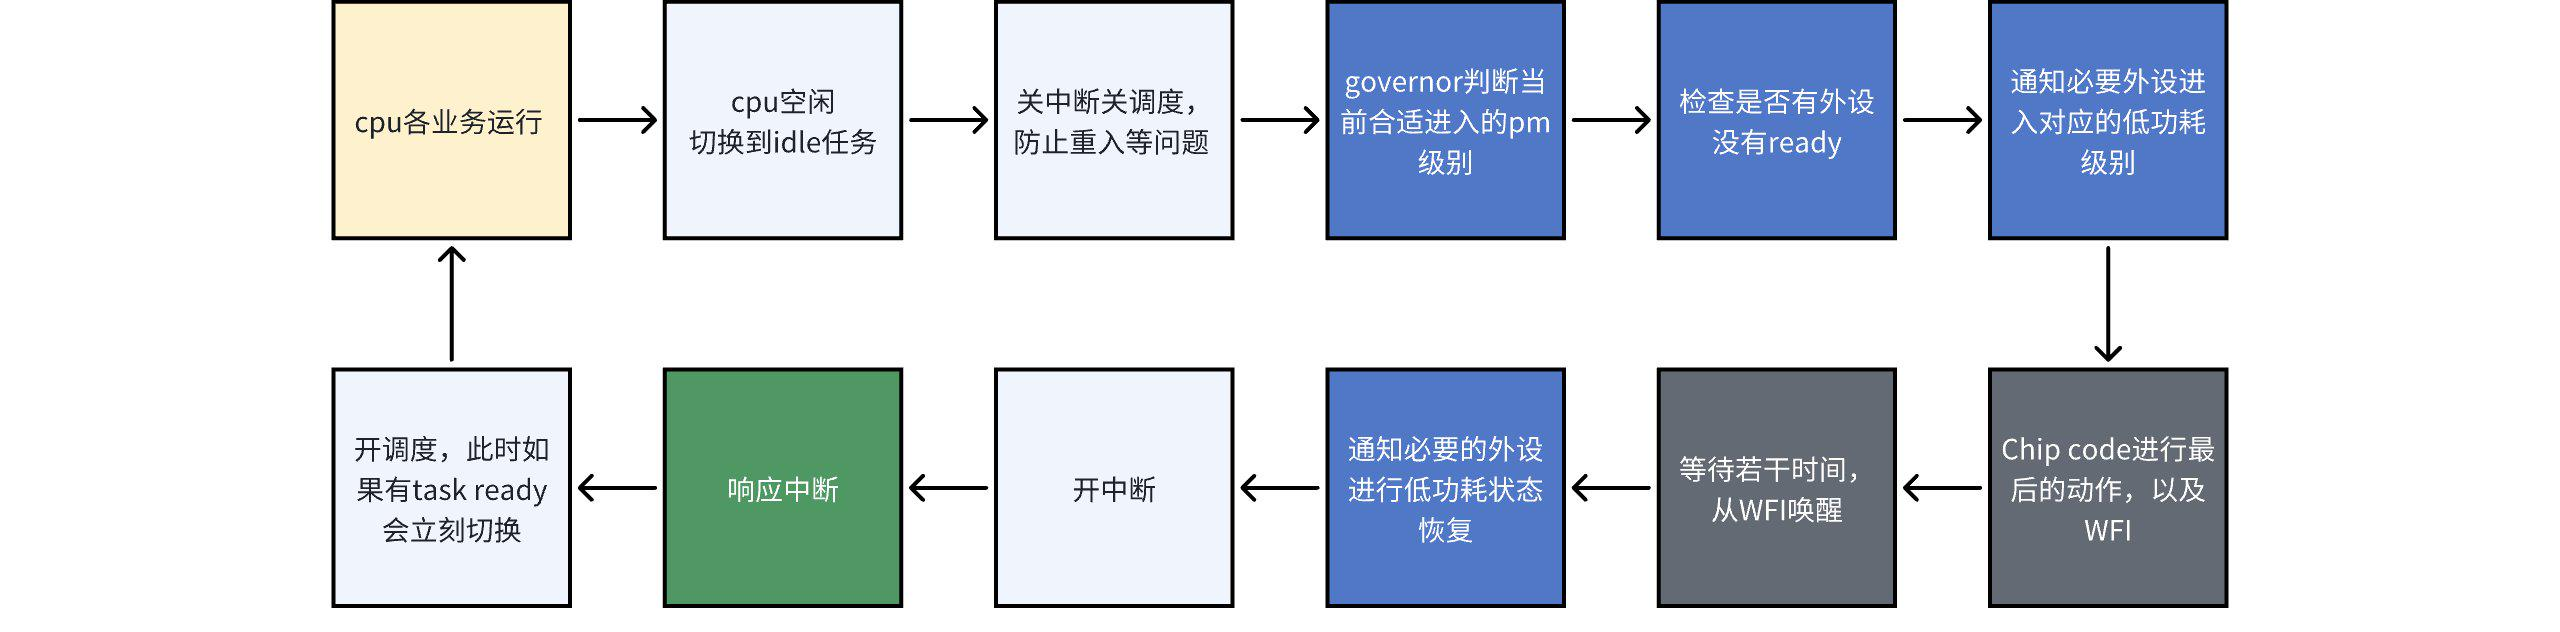
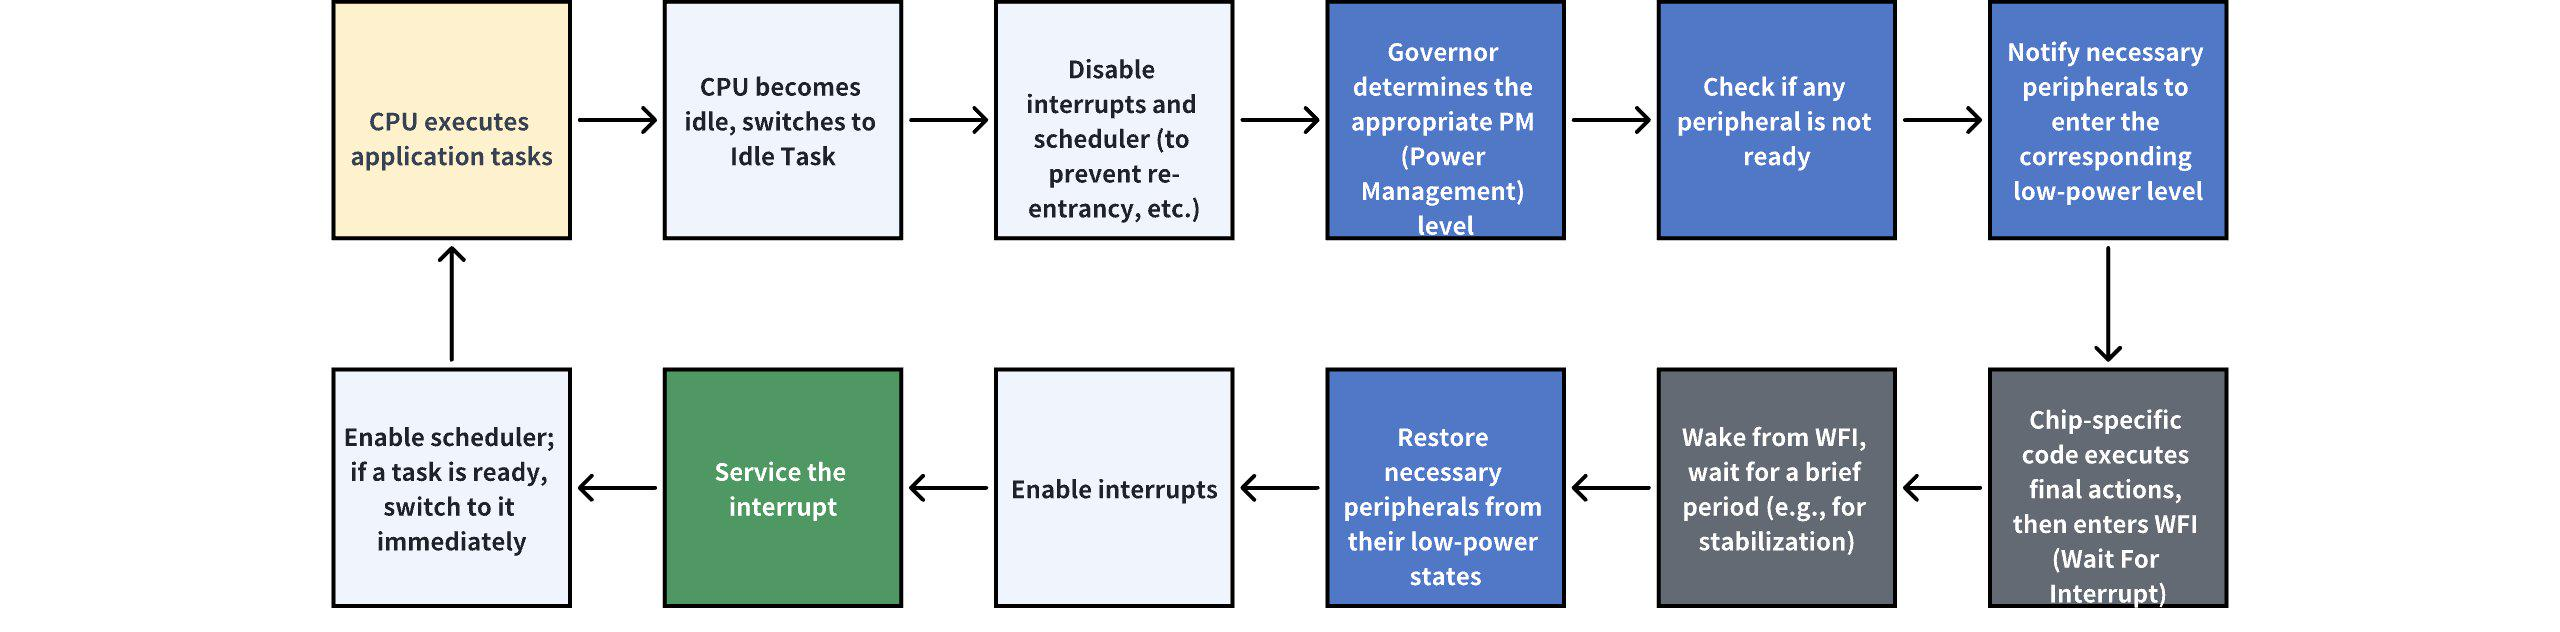
Power Management Driver Development Guide

diff --git a/en/device_dev_guide/power_mgt/pm_framework_guide.md b/en/device_dev_guide/power_mgt/pm_framework_guide.md
@@ -1,0 +1,320 @@
+# Power Management Framework Guide
+
+\[ English | [简体中文](../../../zh-cn/device_dev_guide/power_mgt/pm_framework_guide.md) \]
+
+This document details the core concepts, API usage, and available power management policies (Governors) of the openvela Power Management (PM) framework.
+
+**Target Audience**: Embedded systems developers who need to develop or adapt power management features for a specific hardware platform.
+
+**Related Header Files**: [openvela include/nuttx/power/pm.h](../../../../../../nuttx/blob/dev/include/nuttx/power/pm.h)
+
+## I. Core Concepts
+
+Before diving into the API and configuration, you need to understand the three core concepts of the PM framework: **Power States**, **Power Domains**, and **Governors**.
+
+### 1. Power States
+
+The openvela PM framework defines standard power states that correspond to different hardware operational states. During chip bring-up, you need to map these to the specific hardware run modes of your chip. The actual power consumption in each state depends on the chip's power design.
+
+| **State**   | **`enum pm_state_e`** | **Core Feature Description**                                                                                                                                                                                                                                                                                                                                                                            |
+| :---------- | :-------------------- | :------------------------------------------------------------------------------------------------------------------------------------------------------------------------------------------------------------------------------------------------------------------------------------------------------------------------------------------------------------------------------------------------------ |
+| **Normal**  | `PM_NORMAL`           | The chip is in its normal operating state.                                                                                                                                                                                                                                                                                                                                                              |
+| **Idle**    | `PM_IDLE`             | A low-power state where consumption can be reduced through simple steps without disrupting normal operation.<br>For example, dimming the backlight when the system is idle. Standby is a low-power mode that may involve more extensive power management steps, such as disabling clocks or setting the processor to a low-power mode.<br>The system can wake up **almost instantly** via an interrupt. |
+| **Standby** | `PM_STANDBY`          | A deeper low-power state than `Idle`.<br>It may involve shutting down more clock domains or peripheral power, but memory (RAM) remains powered (in retention). The system can achieve a **fast recovery**.                                                                                                                                                                                              |
+| **Sleep**   | `PM_SLEEP`            | The deepest low-power state.<br>The entire chip enters its lowest power mode, and the most aggressive power-saving measures should be taken.<br>This includes, but is not limited to, powering off the CPU, peripherals, and even parts of RAM.<br>Recovery to normal operation is allowed to **take a considerable amount of time** (some MCUs may even require a reset to boot).                      |
+
+**Internal Control State**:
+
+- `PM_RESTORE` (enum value -1) is an internal state used to notify registered peripheral drivers to return from a low-power state. It is not an actual power state itself.
+
+**Timing Diagram**:
+
+![img](./figures/005.png)
+
+**Further Reading**:
+
+- [Power Management Driver Development Guide](./pm_driver_guide.md)
+
+### 2. Power Domains
+
+A Power Domain is a logical unit that the PM framework uses for power management. You can define a dedicated power domain for multiple drivers and modules, or a single one, to achieve fine-grained power control.
+
+- **Planning**: You need to plan the division of power domains based on your product's business logic and the dependencies between the processor and peripherals.
+- **SMP Support**: In a Symmetric Multi-Processing (SMP) system, you must reserve a dedicated power domain for each CPU core.
+
+### 3. Working Principle and Governors
+
+The PM framework uses timing data about when the CPU enters/exits a power state, combined with driver activity data (`activity`), to decide the CPU's next power management state via a governor.
+
+![img](./figures/006.png)
+
+![img](./figures/007.png)
+
+## II. Basic Configuration and Initialization
+
+This section guides you through the basic configuration and initialization process of the PM framework.
+
+### 1. Initialize the PM Framework
+
+You must call `pm_initialize()` to initialize the PM framework after the kernel starts but before peripheral drivers are initialized.
+
+```C
+void pm_initialize(void)
+```
+
+### 2. Configure the Number of Power Domains
+
+Use the Kconfig option `CONFIG_PM_NDOMAINS` to define the total number of power domains supported by the system.
+
+```CMake
+# Example: Define 3 power domains, which may include CPU and peripheral domains
+CONFIG_PM_NDOMAINS=3
+```
+
+### 3. Set the Governor for a Specific Domain
+
+The system sets a default governor for all domains during initialization. If you need to specify a different policy for a particular domain, call `pm_set_governor()` immediately after `pm_initialize()`.
+
+```C
+int pm_set_governor(int domain, FAR const struct pm_governor_s *gov)
+```
+
+**Example**: Set the `stability` governor for `PM_IDLE_DOMAIN`.
+
+```C
+void arm_pminitialize(void)
+{
+    /* First, initialize the PM framework */
+    pm_initialize();
+  
+    /* Specify the stability governor for PM_IDLE_DOMAIN */  
+    pm_set_governor(PM_IDLE_DOMAIN, pm_stability_governor_initialize());
+}
+```
+
+## III. API Reference
+
+This section provides a detailed introduction to the core APIs offered by the PM framework.
+
+### 1. Callback Registration and Unregistration
+
+#### pm_domain_register
+
+Registers a callback structure to receive notifications when the power state changes. All drivers or modules that need to participate in power management must call this interface.
+
+```C
+int pm_domain_register(int domain, FAR struct pm_callback_s *cb);
+
+/* Macro for simplified registration on PM_IDLE_DOMAIN */
+#define pm_register(cb) pm_domain_register(PM_IDLE_DOMAIN, cb)
+```
+
+#### pm_domain_unregister
+
+When a driver or module no longer needs to receive PM notifications, it calls this interface to unregister its callback.
+
+```C
+int pm_domain_unregister(int domain, FAR struct pm_callback_s *cb);
+
+/* Macro for simplified unregistration on PM_IDLE_DOMAIN */
+#define pm_unregister(cb) pm_domain_unregister(PM_IDLE_DOMAIN, cb)
+```
+
+### 2. Activity and State Requests
+
+#### pm_activity
+
+Notifies the PM framework that a specified domain is active, thereby preventing it from entering a low-power mode for a period of time.
+
+```C
+void pm_activity(int domain, int priority)
+```
+
+- **`priority`** parameter: Represents the activity level. A higher level prevents the system from entering a low-power state for a longer duration.
+
+#### pm_stay
+
+Requests the PM framework to force a specified domain to remain in a certain power state, preventing it from entering a lower power state. This function maintains an internal reference count, allowing for multiple calls.
+
+```C
+void pm_stay(int domain, enum pm_state_e state);
+```
+
+#### pm_relax
+
+Releases one state-holding request made by `pm_stay()`. It can be called multiple times. **`pm_stay()` and `pm_relax()` must be used in pairs.**
+
+```C
+void pm_relax(int domain, enum pm_state_e state);
+```
+
+#### pm_staytimeout
+
+Requests the PM framework to keep a specified domain in a certain state for a specified duration (in milliseconds). The request is automatically released after the timeout.
+
+```C
+void pm_staytimeout(int domain, enum pm_state_e state, int ms)
+```
+
+### 3. Wakelock Management
+
+Wakelocks provide a more structured way to manage state locks.
+
+#### pm_wakelock_stay
+
+Requests the PM framework to prevent the system from entering a lower power state via a `wakelock` structure.
+
+```C
+void pm_wakelock_stay(FAR struct pm_wakelock_s *wakelock)
+```
+
+#### pm_wakelock_relax
+
+Releases a wakelock acquired by `pm_wakelock_stay()`. **These two functions must be used in pairs.**
+
+```C
+void pm_wakelock_relax(FAR struct pm_wakelock_s *wakelock)
+```
+
+**Note**: When the `procfs` filesystem is enabled, you can observe wakelock statistics in `pmconfig` or its corresponding path.
+
+- **Further Reading**: [PM Wakelock Usage Guide](./pm_wakelock_guide.md)
+
+### 4. State Query
+
+#### pm_staycount
+
+This interface queries the `pm_stay()` reference count for a specified domain and state. `pm_stay` and `pm_relax` must be used in pairs; the state hold is only released when the counter reaches 0.
+
+```C
+uint32_t pm_staycount(int domain, enum pm_state_e state)
+```
+
+#### pm_querystate
+
+Queries the current actual power state of a specified domain.
+
+```C
+enum pm_state_e pm_querystate(int domain)
+```
+
+### 5. Interfaces to Use with Caution
+
+The following interfaces can have system-level impacts or cause significant delays. Please use them with caution after fully understanding their mechanisms.
+
+#### pm_checkstate
+
+Checks the recommended state for a driver or module and works with `pm_changestate` to transition to that state, allowing it to operate in the optimal low-power state.
+
+```C
+enum pm_state_e pm_checkstate(int domain);
+```
+
+**Warning**: The recommendation from this interface is based solely on the driver or module state and does not perform checks on all registered callbacks. For example, it may not be aware of external conditions like a low battery level. Therefore, its recommendation may not always be optimal or safe.
+
+#### pm_changestate
+
+Sets all drivers and modules to a specific power state. Using this function first disables interrupts and then checks via callbacks if all drivers or modules within this domain are ready to enter the `newstate`:
+
+- If all are ready, the mode transition begins.
+- If not ready, the transition is aborted, the state is rolled back to the last known valid state, and the function returns a failure.
+
+```C
+int pm_changestate(int domain, enum pm_state_e newstate);
+```
+
+**Warning:** This interface calls the callback functions registered with `pm_register`, which can be time-consuming. Typically, a domain should only have one entry point for this call.
+
+For example, state transitions for `PM_IDLE_DOMAIN` are managed exclusively by the system's Idle thread.
+
+- **Further Reading**: [Implementing Power Management in the IDLE Thread](./pm_idle_impl.md)
+
+## IV. Power Management Policies
+
+Governors are the core of the PM framework, implementing different power management policies. openvela currently supports three standard power management policies.
+
+### 1. Greedy Governor
+
+- **How it Works**: The simplest policy. It selects the lowest available power level that is not locked.
+- **Use Cases**: Suitable for domains with simple requirements. It is recommended to start PM adaptation with this governor.
+- **Default Behavior**: If this option is enabled, `pm_initialize` will set this governor as the default for all domains.
+- **Source Code Reference**: [openvela drivers/power/pm/greedy_governor.c](../../../../../../nuttx/blob/dev/drivers/power/pm/greedy_governor.c)
+
+- **Configuration Options**:
+
+    ```CMake
+    # Enable the PM subsystem
+    CONFIG_PM=y
+    # Enable the Greedy governor
+    CONFIG_PM_GOVERNOR_GREEDY=y
+    ```
+
+### 2. Activity Governor
+
+- **How it Works**: Dynamically determines the most appropriate power state by analyzing driver activity time, the expected time to enter the next power state, and the expected time to exit the current power state.
+- **Use Cases**: Suitable for complex scenarios that require dynamic power adjustment based on system load.
+- **Default Behavior**: If the `greedy` governor is not enabled but the `activity` governor is, the latter becomes the default for all domains.
+- **Source Code Reference**: [openvela drivers/power/pm/activity_governor.c](../../../../../../nuttx/blob/dev/drivers/power/pm/activity_governor.c)
+
+- **Note**: The timing for each state is configurable. The time data for entering/exiting a power state is passed in via configuration, and all domains will be configured with the same data.
+
+- **Governor Operation Example**: The figure below shows an example with an M55 CPU, illustrating how the `activity governor` interacts with drivers and performs state transitions.
+
+    ![img](./figures/008.png)
+
+- **Configuration Options**:
+
+    ```CMake
+    # Enable the PM subsystem
+    CONFIG_PM=y
+    # Enable the Activity governor
+    CONFIG_PM_GOVERNOR_ACTIVITY=y
+
+    # Configure enter/exit thresholds and minimum hold times for various states (unit: ticks)
+    CONFIG_PM_GOVERNOR_IDLEENTER_THRESH
+    CONFIG_PM_GOVERNOR_IDLEEXIT_THRESH
+    CONFIG_PM_GOVERNOR_IDLEENTER_COUNT
+
+    # ... (similar configurations for STANDBY and SLEEP states)
+    CONFIG_PM_GOVERNOR_STANDBYENTER_THRESH
+    # ...
+    ```
+
+### 3. Stability Governor (Anti-Jitter)
+
+- **How it Works**: An anti-jitter mechanism. When the system wakes up from a low-power state, it forces the system to stay in a non-sleep state for a period to avoid rapid toggling between wake and sleep due to frequent external interrupts.
+
+- **Use Cases**: Suitable for platforms where wake-up/sleep costs are high or for scenarios requiring quick, consecutive responses to external interrupts.
+
+- **Best Practice**: This policy is not suitable as a global default. **It is strongly recommended to apply this policy only to `PM_IDLE_DOMAIN` individually via `pm_set_governor()`.**
+
+    ```C
+    pm_set_governor(PM_IDLE_DOMAIN, pm_stability_governor_initialize());
+    ```
+
+- **Source Code Reference**: [openvela drivers/power/pm/stability_governor.c](../../../../../../nuttx/blob/dev/drivers/power/pm/stability_governor.c)
+
+- **Key Implementation Detail**: When the system wakes from `SLEEP` and returns to `IDLE`, it cannot use `last_state` to check the `WFI` hold time. Instead, it selects the deepest power level with a non-zero threshold from the configuration list (e.g., if the `SLEEP` threshold is 0 and the `STANDBY` threshold is 10, it will select `STANDBY`) as the new baseline for checking.
+
+- **Governor Operation Example:** The figure below shows the core logic of the `stability` governor, where it checks if the time spent in `PM_IDLE` (WFI) meets the threshold before attempting to enter `PM_SLEEP`.
+
+    ![img](./figures/009.png)
+
+- **Configuration Options**:
+
+    ```CMake
+    # Enable the PM subsystem
+    CONFIG_PM=y
+    # Enable the Stability governor
+    CONFIG_PM_GOVERNOR_STABILITY=y
+
+    # Configure the delay time before entering each level (unit: ticks)
+    # Set to 0 to disable delay checking for that state
+    CONFIG_PM_GOVERNOR_STABILITY_IDLE_THRESH
+    CONFIG_PM_GOVERNOR_STABILITY_STANDBY_THRESH
+    CONFIG_PM_GOVERNOR_STABILITY_SLEEP_THRESH
+    ```
+
+## V. References
+
+- Apache NuttX Official Documentation - Power Management: https://nuttx.apache.org/docs/10.0.0/components/power.html

diff --git a/zh-cn/device_dev_guide/power_mgt/pm_framework_guide.md b/zh-cn/device_dev_guide/power_mgt/pm_framework_guide.md
@@ -1,5 +1,7 @@
 # 电源管理框架指南
 
+\[ [English](../../../en/device_dev_guide/power_mgt/pm_framework_guide.md) | 简体中文 \]
+
 本文档详细介绍了 openvela 电源管理 (Power Management, PM) 框架的核心概念、API 使用方法以及可用的电源管理策略 (Governors)。
 
 **目标读者**：需要为特定硬件平台开发或适配电源管理功能的嵌入式系统开发者。
@@ -128,7 +130,7 @@ int pm_domain_unregister(int domain, FAR struct pm_callback_s *cb);
 void pm_activity(int domain, int priority)
 ```
 
-- **参数** **`priority`**：表示活动等级。等级越高，阻止系统进入低功耗状态的时间越长。
+- **`priority`**：表示活动等级。等级越高，阻止系统进入低功耗状态的时间越长。
 
 #### pm_stay
 
@@ -225,7 +227,7 @@ int pm_changestate(int domain, enum pm_state_e newstate);
 
 例如，`PM_IDLE_DOMAIN` 的状态切换由系统的 Idle 线程统一管理。
 
-- **进一步阅读**：[Idle thread 处理](./pm_idle_impl.md)
+- **进一步阅读**：[在 IDLE 线程中实现电源管理](./pm_idle_impl.md)
 
 ## 四、电源管理策略
 
